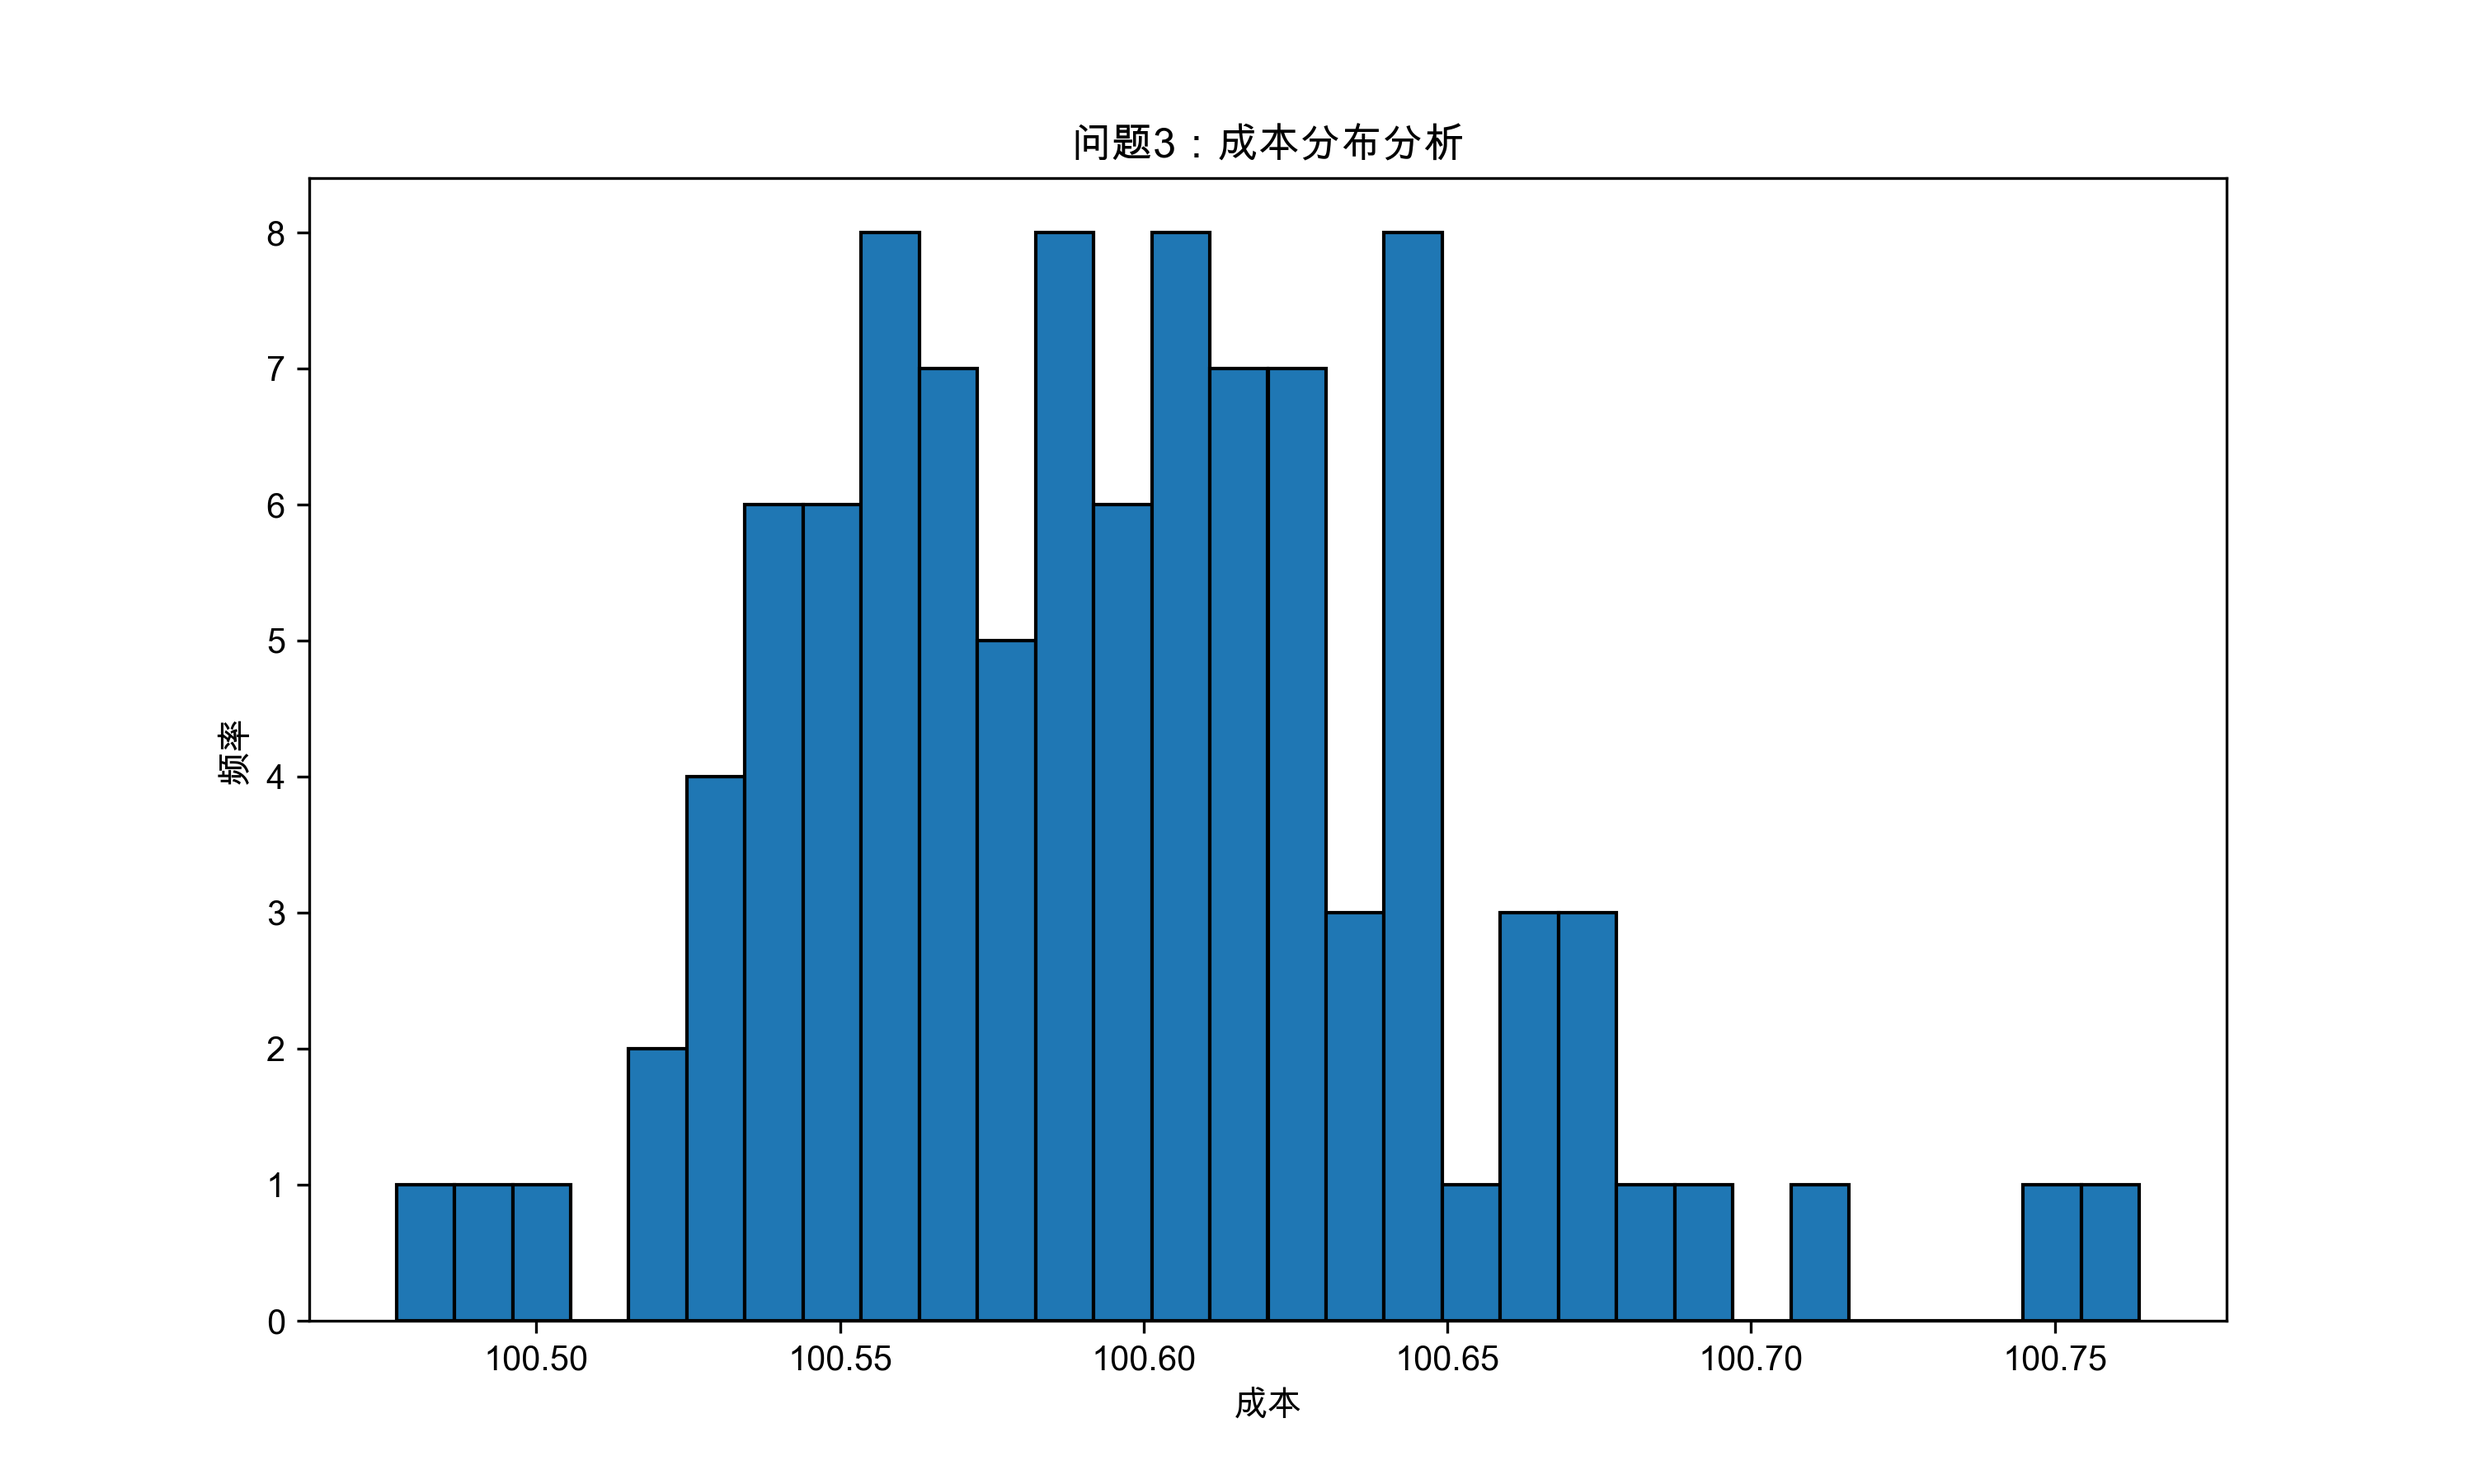
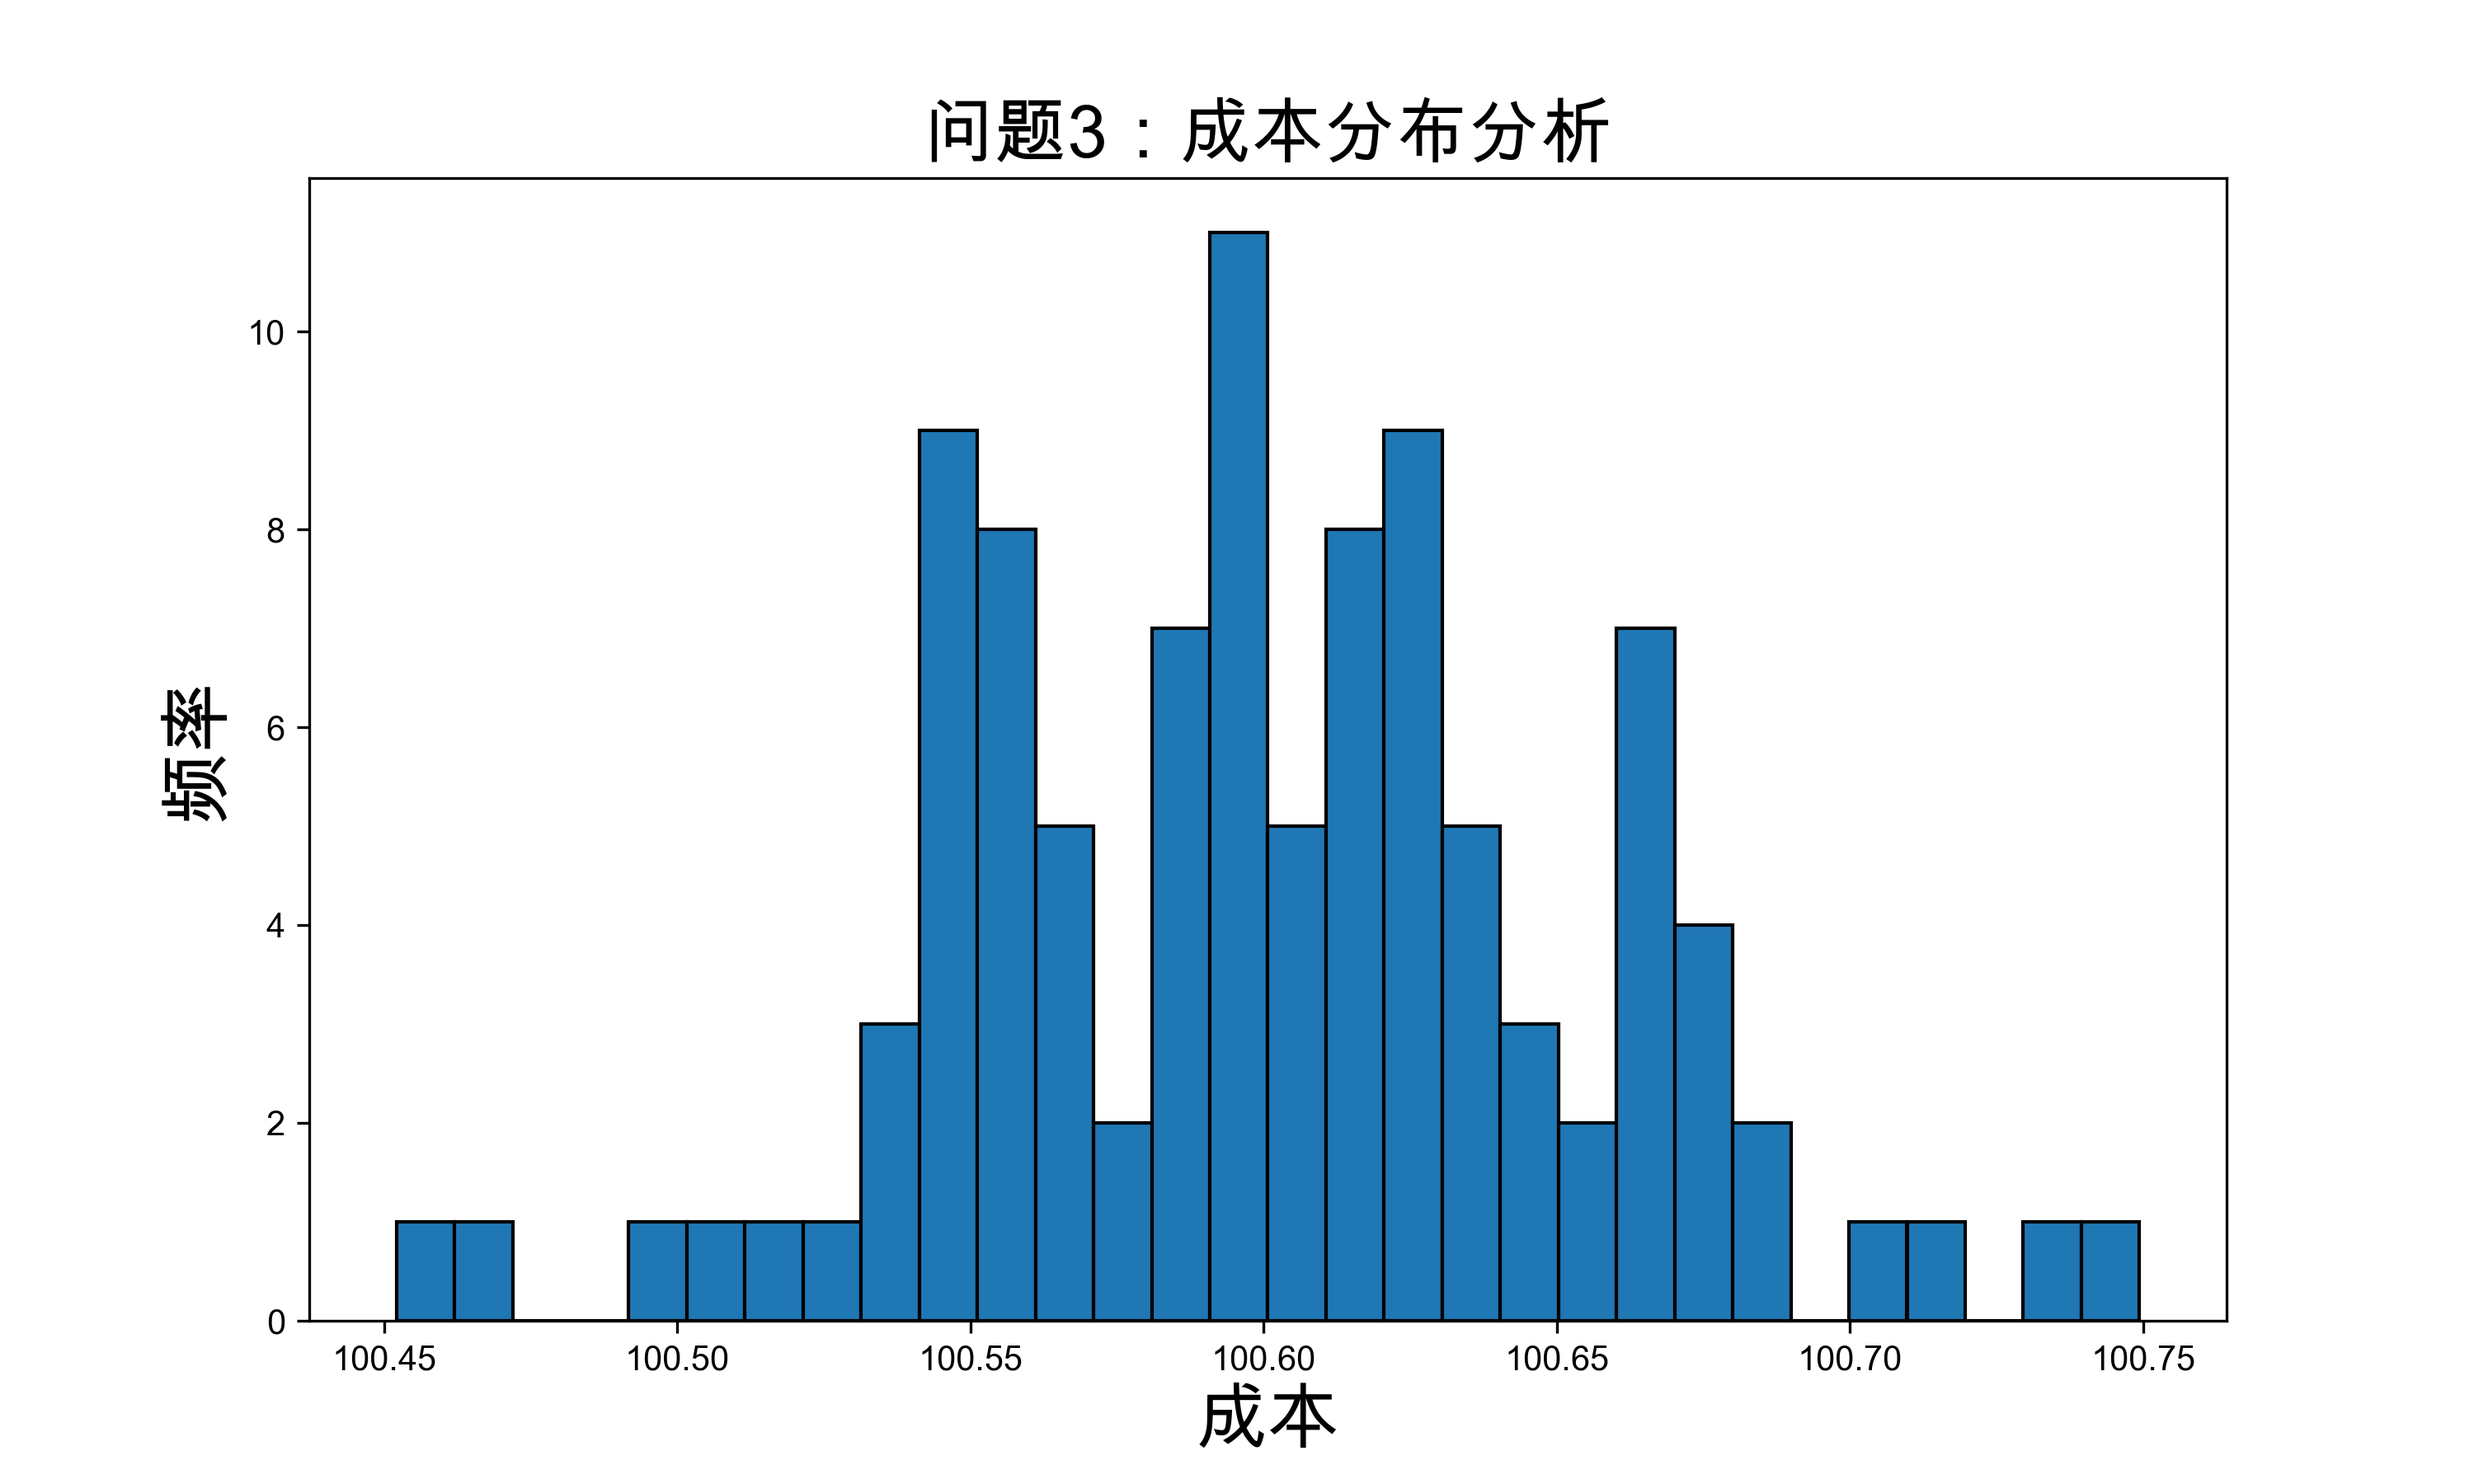
adjust: forn size

diff --git a/B/4.py b/B/4.py
@@ -203,9 +203,9 @@ def plot_cost_distribution(costs, problem_num):
     """绘制成本分布图"""
     plt.figure(figsize=(10, 6))
     plt.hist(costs, bins=30, edgecolor='black')
-    plt.xlabel('成本')
-    plt.ylabel('频率')
-    plt.title(f'问题{problem_num}：成本分布分析')
+    plt.xlabel('成本', fontsize=21)
+    plt.ylabel('频率', fontsize=21)
+    plt.title(f'问题{problem_num}：成本分布分析', fontsize=21)
     plt.savefig(f'./4/cost_variability_{problem_num}.png', dpi=300)
     plt.close()
 
